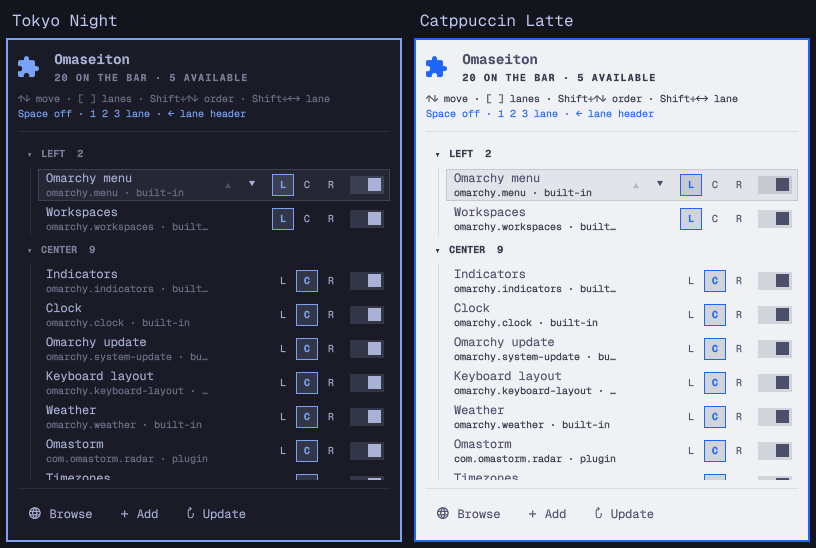
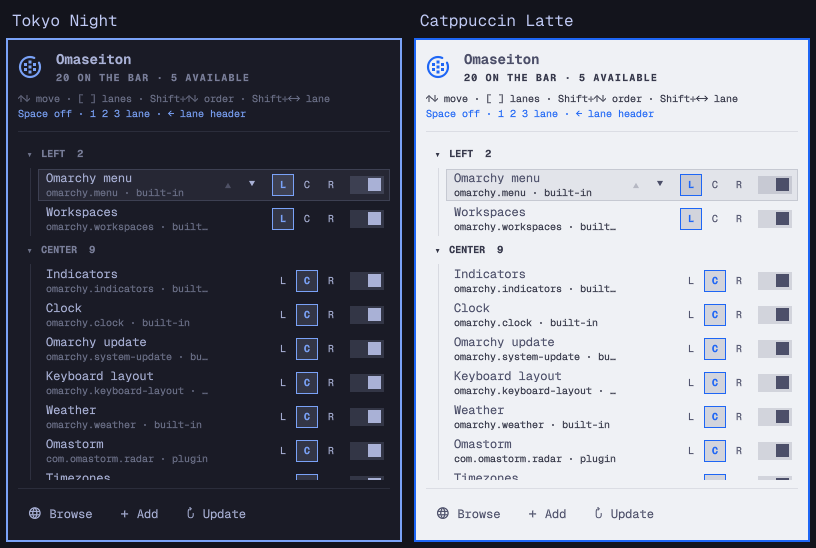
ui: use a theme-aware emblem matching the project artwork

Changed region(s): [[0.5208, 0.0931, 0.7966, 0.1551], [0.0, 0.0931, 0.1838, 0.1551], [0.2145, 0.1241, 0.3064, 0.1551]]

diff --git a/Emblem.qml b/Emblem.qml
@@ -1,0 +1,32 @@
+import QtQuick
+import qs.Commons
+
+// A small-size counterpart to the artwork: an open circle and three tidy lanes.
+// Geometry is drawn at 24 units, then scaled to the shell's optical icon canvas.
+Canvas {
+  id: icon
+  property color foreground: Color.bar.text
+  property color accent: Color.accent
+  onForegroundChanged: requestPaint()
+  onAccentChanged: requestPaint()
+  onWidthChanged: requestPaint()
+  onHeightChanged: requestPaint()
+
+  onPaint: {
+    var ctx = getContext("2d")
+    ctx.reset()
+    ctx.scale(width / 24, height / 24)
+    ctx.strokeStyle = foreground
+    ctx.lineWidth = 2.2
+    ctx.lineCap = "round"
+    ctx.beginPath()
+    ctx.arc(12, 12, 10, -0.45, 5.15)
+    ctx.stroke()
+    ctx.fillStyle = foreground
+    var cells = [[6, 8], [6, 13], [10.5, 5.5], [10.5, 10.5], [10.5, 15.5], [15, 8], [15, 13]]
+    for (var i = 0; i < cells.length; i++) {
+      ctx.fillStyle = i === 3 ? accent : foreground
+      ctx.fillRect(cells[i][0], cells[i][1], 3, 3)
+    }
+  }
+}

diff --git a/Deck.qml b/Deck.qml
@@ -567,11 +567,10 @@ Item {
         meta: root.onBarCount + " on the bar · " + root.availableCount + " available"
         foreground: root.fg
         iconComponent: Component {
-          Text {
-            text: String.fromCodePoint(0xF0431)
-            color: Color.accent
-            font.family: Style.font.family
-            font.pixelSize: Style.font.display
+          Emblem {
+            width: Style.font.display
+            height: width
+            foreground: Color.accent
           }
         }
       }

diff --git a/BarWidget.qml b/BarWidget.qml
@@ -59,7 +59,11 @@ BarWidget {
     id: button
     anchors.fill: parent
     bar: root.bar
-    text: String.fromCodePoint(0xF0431)
+    iconComponent: Component {
+      Emblem {
+        foreground: button.active && button.useActiveColor ? button.activeColor : button.foreground
+      }
+    }
     active: root.opened
     onPressed: b => {
       if (b !== Qt.LeftButton) return

diff --git a/README.md b/README.md
@@ -31,7 +31,7 @@ Omaseiton is a bar plugin for the [Omarchy](https://omarchy.org) shell. Click it
 <p align="center"><sub>Left: lanes as a tree, with the buttons for the highlighted row. Right: saving and restoring whole layouts.</sub></p>
 
 <p align="center">
-  <img src="docs/bar.png" alt="The live Omarchy bar with the Omaseiton puzzle-piece icon" width="100%">
+  <img src="docs/bar.png" alt="The live Omarchy bar with the Omaseiton open-circle-and-lanes emblem" width="100%">
   <img src="docs/themes.png" alt="Omaseiton in Tokyo Night and Catppuccin Latte" width="792">
 </p>
 
@@ -54,7 +54,7 @@ Screenshot details are in [docs/SCREENSHOTS.md](docs/SCREENSHOTS.md).
 omarchy plugin add https://github.com/p-clements/omaseiton.git --enable
 ```
 
-Then look for the puzzle-piece icon on your bar.
+Then look for the open-circle-and-lanes emblem on your bar.
 
 To try a local copy while developing, copy the files into `~/.config/omarchy/plugins/io.github.p-clements.omaseiton/`, run `omarchy-shell shell rescanPlugins`, and enable it with `omarchy plugin enable io.github.p-clements.omaseiton`.
 

diff --git a/docs/SCREENSHOTS.md b/docs/SCREENSHOTS.md
@@ -6,7 +6,7 @@ The README includes the images below. The panel and layout images render the act
 | ------------------ | ------------------------------------------------------------------ |
 | `docs/panel.png`   | Native dropdown with plugins grouped by lane and inline controls   |
 | `docs/layouts.png` | Layouts expanded, showing Omarchy default and the saved My layout  |
-| `docs/bar.png`     | Live Omarchy bar with Omaseiton's puzzle-piece icon                |
+| `docs/bar.png`     | Live Omarchy bar with Omaseiton's open-circle-and-lanes emblem     |
 | `docs/themes.png`  | The same dropdown in Tokyo Night and Catppuccin Latte              |
 | `preview.png`      | Marketplace preview built from the emblem and current panel render |
 

diff --git a/CHANGELOG.md b/CHANGELOG.md
@@ -2,6 +2,8 @@
 
 ## Unreleased
 
+- Replace the generic puzzle-piece icon with a theme-aware vector emblem matching the project artwork
+
 - Keep saved layout contents, including private inline plugin settings, out of process arguments during restore; read them through stdin instead
 - Complete the screenshot gallery and refresh panel, layout and marketplace preview images
 
